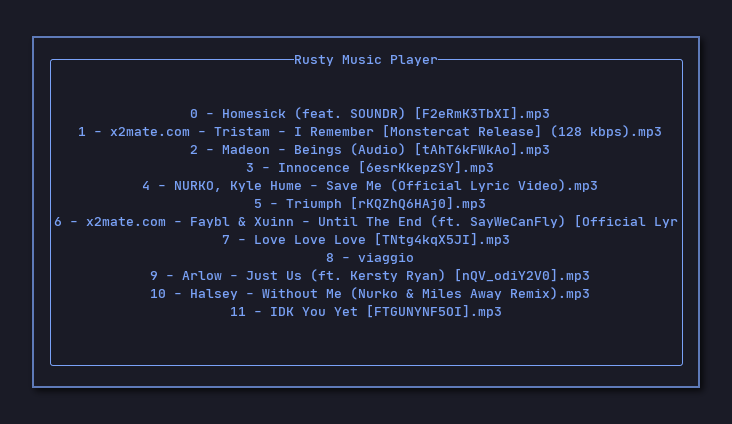
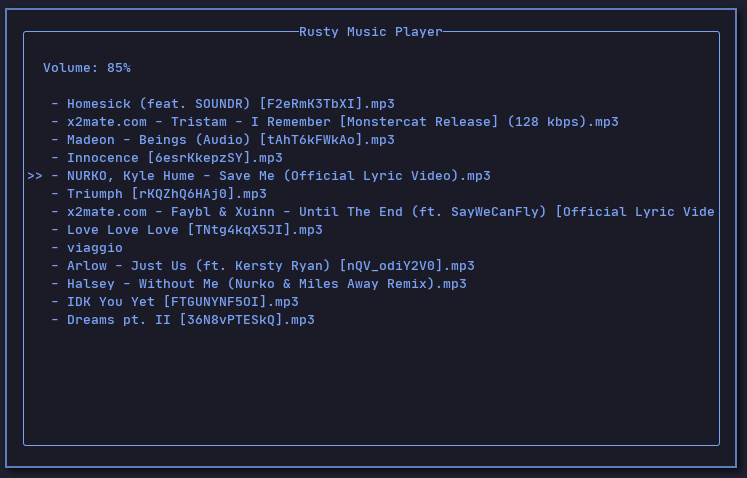
Implemented volume control, play and pause

Changed region(s): [[0.0, 0.0613, 0.9918, 0.9811], [0.0, 0.0, 0.9918, 0.0307], [0.3907, 0.1226, 0.6011, 0.1533]]

diff --git a/src/update.rs b/src/update.rs
@@ -8,6 +8,10 @@ use std::fs::File;
 use std::io::BufReader;
 
 fn play_sound(index: u32, app: &mut App) {
+
+    // Clears the sink
+    app.sink.stop();
+
     let mut paths = fs::read_dir(app.songs_list.path.clone()).unwrap();
     let path = format!("{}", paths.nth(index as usize).unwrap().unwrap().path().display());
 
@@ -34,19 +38,48 @@ pub fn update(app: &mut App, key_event: KeyEvent) {
             }
         },
         KeyCode::Char(c) => {
-            if c.is_digit(10) {
-                play_sound(c.to_digit(10).unwrap(), app);
-            }
+
+            match c {
+                '0'|'1'|'2'|'3'|'4'|'5'|'6'|'7'|'8'|'9' => {
+                    play_sound(c.to_digit(10).unwrap(), app);
+                },
+                ' ' => {
+                    if app.sink.is_paused() {
+                        app.sink.play();
+                    }
+                    else {
+                        app.sink.pause();
+                    }
+                },
+                '+' => {
+                    if app.sink.volume() <= 2.0 {
+                        app.sink.set_volume(app.sink.volume() + 0.05);
+                    }
+                },
+
+                '-' => {
+                    if app.sink.volume() - 0.05 >= 0.0 {
+                        app.sink.set_volume(app.sink.volume() - 0.05);
+                    }
+                    else {
+                        app.sink.set_volume(0.0);
+                    }
+                },
+                _ => {},
+            };
         },
+        // Change selected song
         KeyCode::Up => {
             app.songs_list.prev();
         },
         KeyCode::Down=> {
             app.songs_list.next();
         },
+        // Play selected sound
         KeyCode::Enter => {
             play_sound(app.songs_list.index as u32, app)
         },
+
         _ => {}
     };
 }

diff --git a/src/ui.rs b/src/ui.rs
@@ -16,16 +16,18 @@ pub fn render(app: &mut App, f: &mut Frame) {
     for (i, path) in app.songs_list.list.iter().enumerate() {
         let tmp_path = path.split("/").last().unwrap();
         if i == app.songs_list.index {
-            path_string = format!("{}>>{} - {}\n", path_string, i, tmp_path);
+            path_string = format!("{}>> - {}\n", path_string, tmp_path);
         }
         else {
-            path_string = format!("{}{} - {}\n", path_string, i, tmp_path);
+            path_string = format!("{}   - {}\n", path_string, tmp_path);
         }
     }    
 
+    let volume = app.sink.volume() * 100.0;
+
     // Starting with Ratatui
   f.render_widget(
-    Paragraph::new(format!("\n\n{}", path_string))
+    Paragraph::new(format!("\n  Volume: {}%\n\n{}", volume.floor(), path_string))
     .block(
       Block::default()
         .title("Rusty Music Player")
@@ -34,7 +36,7 @@ pub fn render(app: &mut App, f: &mut Frame) {
         .border_type(BorderType::Rounded),
     )
     .style(Style::default().fg(Color::Blue))
-    .alignment(Alignment::Center),
+    .alignment(Alignment::Left),
     f.size(),
   );
 

diff --git a/README.md b/README.md
@@ -4,10 +4,27 @@ A simple cli music player written in rust and ratatui
 
 ![example](./assets/screen1.png)
 
+For now, you have to change the path in src/app.rs 
+
+### Keys
+
+- `up_arrow` scroll up_arrow
+
+- `down_arrow` scroll_down
+
+- `space` start / stop
+
+- `0-9` play the song at index
+
+- `+` raise volume
+
+- `-` lower volume
+
+- `q` or `esc` to quit
+
 ### Features
 
-- Scroll through a list of files in a directory
-
-### TODO
-
-- [ ] Play and Pause
+- [x] Scroll through a list of files in a directory
+- [x] Play and Pause
+- [x] Volume Control
+- [ ] Move between folders
